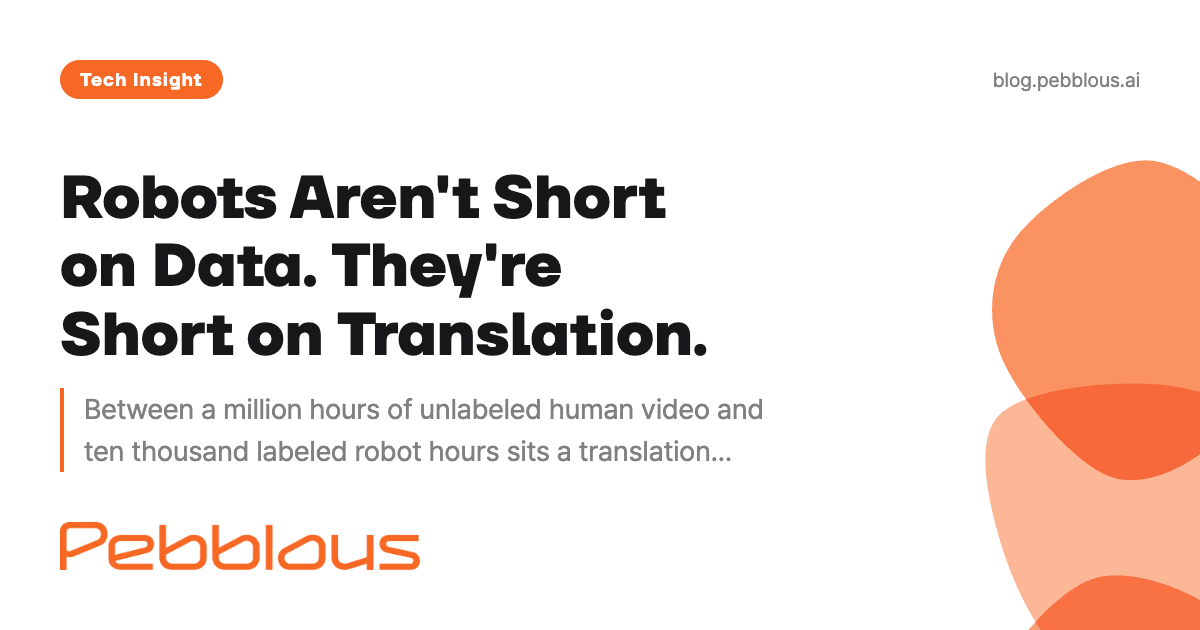
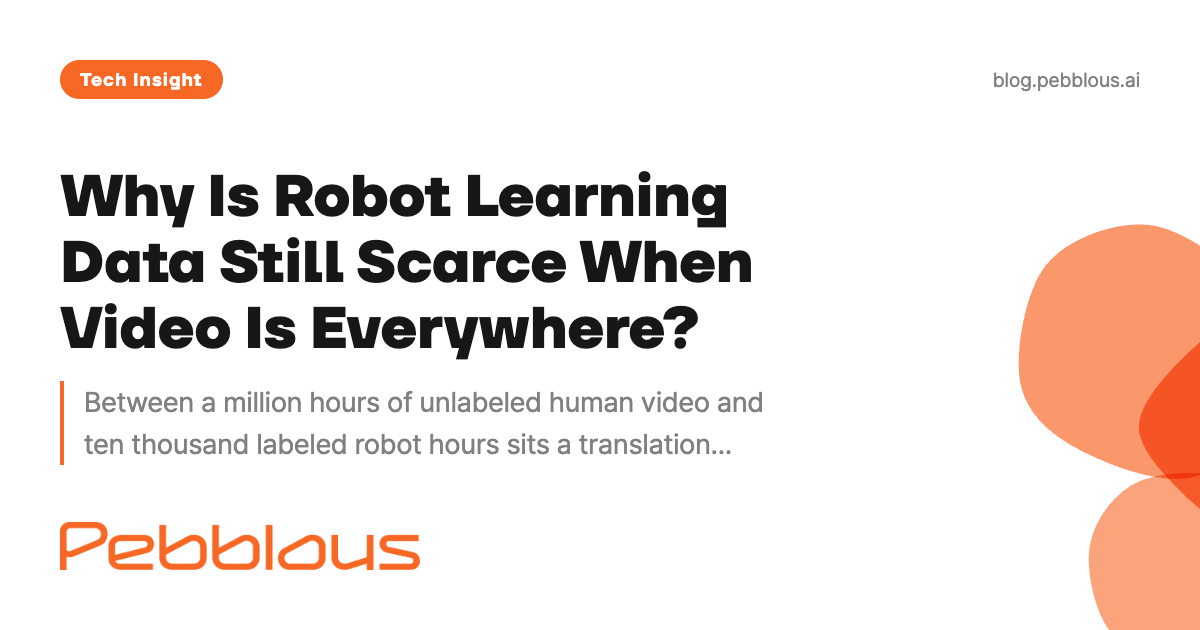
fix(report): 로봇 데이터 4인터페이스 — 현행 규칙 맞춤 (KO+EN)
- 제목 v3·핵심 검색어: '로봇 학습 데이터는 왜 넘치는데도 모자랄까?' + pb-search-keyword, 검색 제목 키워드 시작, 부제 줄표 제거
- 초록 첫 문장 소식부터, '읽어야' 류 3건 정리
- 합쇼체 9문장(맺음·방법 메모) → 해라체, 인사·요청 맺음말 제거
- 발행일 2026-10-24(실제 발행일), OG 표지 재생성, index.md 재추출

diff --git a/report/robot-data-interfaces-beyond-vla/ko/index.html b/report/robot-data-interfaces-beyond-vla/ko/index.html
@@ -10,8 +10,10 @@
     <meta name="robots" content="index, follow">
     <meta name="revisit-after" content="7 days">
 
-    <title>로봇 학습의 네 인터페이스 — VLA·월드 모델 다음의 데이터 병목 | 페블러스</title>
+    <title>로봇 학습 데이터의 네 인터페이스, VLA·월드 모델 다음의 병목 | 페블러스</title>
     <meta name="description" content="세상에 넘치는 인간 영상은 로봇에게 도착하지 않는다. 정밀한 행동 라벨이 붙은 공개 원격조작 영상은 1만 시간대, 라벨 없는 1인칭 인간 영상은 100만 시간대다. 그 사이를 잇는 네 개의 번역 장치가 어디까지 왔고 어디서 부러지는지를 논문 밖 독립 근거로 검증한다.">
+    <meta name="pb-search-keyword" content="로봇 학습 데이터">
+    <meta name="pb-search-keyword-forms" content="로봇 학습 데이터|로봇 데이터|로봇 학습">
     <meta name="keywords" content="로봇 학습 데이터, VLA, 월드 모델, 자동 라벨링, 잠재 행동, 보상 모델, 성공 판정, 리타게팅, 물리 기반 3D 추론, Physical AI, AI-Ready Data, 데이터 품질, 감독신호, cross-embodiment">
 
     <link rel="canonical" href="https://blog.pebblous.ai/report/robot-data-interfaces-beyond-vla/ko/">
@@ -20,15 +22,15 @@
     <link rel="alternate" hreflang="x-default" href="https://blog.pebblous.ai/report/robot-data-interfaces-beyond-vla/ko/">
 
     <!-- Open Graph -->
-    <meta name="og-image-title" content="로봇이 못 배우는 건 데이터가 없어서가 아니다">
-    <meta property="og:title" content="로봇이 못 배우는 건 데이터가 없어서가 아니다">
+    <meta name="og-image-title" content="로봇 학습 데이터는 왜 넘치는데도 모자랄까?">
+    <meta property="og:title" content="로봇 학습 데이터는 왜 넘치는데도 모자랄까?">
     <meta property="og:description" content="라벨 없는 인간 영상 100만 시간과 라벨 붙은 로봇 영상 1만 시간 사이에는 번역 장치가 필요하다. 자동 라벨링·리타게팅·물리 3D 추론·성공 판정, 네 장치의 성숙도와 한계를 독립 근거로 검증한다.">
     <meta property="og:type" content="article">
     <meta property="og:url" content="https://blog.pebblous.ai/report/robot-data-interfaces-beyond-vla/ko/">
     <meta property="og:image" content="https://blog.pebblous.ai/report/robot-data-interfaces-beyond-vla/ko/image/index.png">
     <meta property="og:image:width" content="1200">
     <meta property="og:image:height" content="630">
-    <meta property="og:image:alt" content="로봇이 못 배우는 건 데이터가 없어서가 아니다 — VLA와 월드 모델 다음의 네 개의 번역 장치">
+    <meta property="og:image:alt" content="로봇 학습 데이터는 왜 넘치는데도 모자랄까?">
     <meta property="og:site_name" content="Pebblous Blog">
     <meta property="og:locale" content="ko_KR">
 
@@ -36,16 +38,16 @@
     <meta name="twitter:card" content="summary_large_image">
     <meta name="twitter:site" content="@pebblous_ai">
     <meta name="twitter:creator" content="@pebblous_ai">
-    <meta name="twitter:title" content="로봇이 못 배우는 건 데이터가 없어서가 아니다">
+    <meta name="twitter:title" content="로봇 학습 데이터는 왜 넘치는데도 모자랄까?">
     <meta name="twitter:description" content="넘치는 인간 영상을 로봇의 감독신호로 바꾸는 네 개의 번역 장치. 어디까지 자동화됐고 어디서 다시 사람 손이 들어가는가.">
     <meta name="twitter:image" content="https://blog.pebblous.ai/report/robot-data-interfaces-beyond-vla/ko/image/index.png">
-    <meta name="twitter:image:alt" content="VLA와 월드 모델 다음에 필요한 네 개의 번역 장치">
+    <meta name="twitter:image:alt" content="로봇 학습 데이터는 왜 넘치는데도 모자랄까?">
 
     <!-- Google Scholar Citation Meta -->
-    <meta name="citation_title" content="로봇이 못 배우는 건 데이터가 없어서가 아니다 — VLA와 월드 모델 다음의 네 개의 번역 장치">
+    <meta name="citation_title" content="로봇 학습 데이터는 왜 넘치는데도 모자랄까?">
     <meta name="citation_author" content="Pebblous Data Communication Team">
-    <meta name="citation_publication_date" content="2026/08/11">
-    <meta name="citation_online_date" content="2026/08/11">
+    <meta name="citation_publication_date" content="2026/10/24">
+    <meta name="citation_online_date" content="2026/10/24">
     <meta name="citation_journal_title" content="Pebblous Blog">
     <meta name="citation_language" content="ko">
 
@@ -165,7 +167,7 @@
                     <h2 class="text-3xl font-bold themeable-heading mb-8">Executive Summary</h2>
                     <div class="key-insight">
                         <p class="themeable-text leading-relaxed">
-                            로봇 학습을 둘러싼 논쟁은 오래도록 "더 큰 VLA인가, 월드 모델인가"로 흘렀다. 2026년 6월에 나온 한 포지션 페이퍼는 병목이 그쪽에 있지 않다고 말한다. 세상에는 사람이 무언가를 해내는 영상이 넘치는데, 그중 로봇이 알아들을 수 있는 형태로 번역된 것은 극히 일부다. 정밀한 행동 라벨이 달린 공개 원격조작 영상은 1만 시간대이고, 라벨이 없는 1인칭 인간 영상은 100만 시간대다. 넘치는 쪽이 로봇에게 도착하지 않는다.
+                            로봇 학습의 병목은 더 큰 VLA나 월드 모델보다 데이터 번역에 있다는 주장이 나왔다. 2026년 6월 arXiv에 올라온 한 포지션 페이퍼의 진단이다. 세상에는 사람이 무언가를 해내는 영상이 넘치는데, 그중 로봇이 알아들을 수 있는 형태로 번역된 것은 극히 일부다. 정밀한 행동 라벨이 달린 공개 원격조작 영상은 1만 시간대이고, 라벨이 없는 1인칭 인간 영상은 100만 시간대다. 넘치는 쪽이 로봇에게 도착하지 않는다.
                         </p>
                         <p class="themeable-text leading-relaxed mt-4">
                             논문은 그 사이에 놓여야 할 네 개의 번역 장치를 지목한다. 라벨 없는 영상에서 행동 라벨을 만드는 장치, 사람의 몸짓을 로봇의 관절로 옮기는 장치, 접촉과 무게를 아는 3차원 추론 장치, 그리고 잘했는지를 판정하는 장치다. 논문 밖의 독립 연구로 하나씩 검증해 보면 그림이 갈린다. 번역은 실제로 작동한다. 시연이 열 개뿐일 때, 행동 라벨이 전혀 없는 영상으로 사전학습하는 것만으로 성공률이 다섯 배 넘게 뛴다. 동시에 번역은 아직 사람만 못하다. 자동으로 붙인 행동 라벨은 진짜 행동 라벨에 여전히 뒤지고, 성공을 판정하는 모델은 물리 상식 시험에서 사람의 절반을 겨우 넘는다.
@@ -222,7 +224,7 @@
 
                     <div class="key-insight">
                         <p class="themeable-text leading-relaxed">
-                            저자들의 소속은 모두 학술기관으로 표기돼 있으나, 이 논문은 로봇 스타트업 Motoniq.ai가 자사 리서치 페이지에 창업 명제로 내건 문서이기도 하다. 문제 진단은 인용할 가치가 있되, 그 진단이 특정 회사의 사업 각도와 정렬돼 있다는 점은 감안해서 읽어야 한다. 이 리포트가 논문의 진단을 그대로 옮기지 않고 논문 밖의 독립 연구로 하나씩 검증하는 이유이기도 하다.
+                            저자들의 소속은 모두 학술기관으로 표기돼 있으나, 이 논문은 로봇 스타트업 Motoniq.ai가 자사 리서치 페이지에 창업 명제로 내건 문서이기도 하다. 문제 진단은 인용할 가치가 있되, 그 진단이 특정 회사의 사업 각도와 정렬돼 있다는 점은 감안해야 한다. 이 리포트가 논문의 진단을 그대로 옮기지 않고 논문 밖의 독립 연구로 하나씩 검증하는 이유이기도 하다.
                         </p>
                     </div>
 
@@ -459,11 +461,11 @@
                         <h2 class="text-3xl font-bold themeable-heading">보상 인터페이스: 성공했는지를 누가 판정하는가</h2>
                     </div>
                     <p class="themeable-text leading-relaxed mb-6">
-                        행동 라벨을 만들었다고 끝이 아니다. 그 행동이 과제를 해낸 것인지 아닌지를 누군가 말해 줘야 정책이 학습할 수 있다. 사람이 매 롤아웃을 보고 채점하면 규모가 막히므로, 영상과 지시문을 함께 읽는 비전-언어 모델에게 그 판정을 맡기자는 것이 보상 인터페이스다. 이 절의 수치를 읽기 전에 천장부터 세워야 한다. <strong>기준선이 100%가 아니기 때문이다.</strong>
+                        행동 라벨을 만들었다고 끝이 아니다. 그 행동이 과제를 해낸 것인지 아닌지를 누군가 말해 줘야 정책이 학습할 수 있다. 사람이 매 롤아웃을 보고 채점하면 규모가 막히므로, 영상과 지시문을 함께 읽는 비전-언어 모델에게 그 판정을 맡기자는 것이 보상 인터페이스다. 이 절의 수치를 보기 전에 천장부터 세워야 한다. <strong>기준선이 100%가 아니기 때문이다.</strong>
                     </p>
 
                     <p class="themeable-text leading-relaxed mb-6">
-                        구글 딥마인드가 2023년에 성공 판정을 시각 질의응답 문제로 재정의한 연구 SuccessVQA(<a href="https://arxiv.org/abs/2303.07280" target="_blank" rel="noopener" class="underline">arXiv:2303.07280</a>)는, 같은 영상을 본 사람 평가자들끼리의 일치도 자체가 약 88%에 머문다고 보고했다. 무엇이 성공인가에 대해 사람도 여덟 번 중 한 번은 서로 다르게 답한다는 뜻이다. 이후의 모든 자동 판정 수치는 이 천장 대비로 읽어야 한다.
+                        구글 딥마인드가 2023년에 성공 판정을 시각 질의응답 문제로 재정의한 연구 SuccessVQA(<a href="https://arxiv.org/abs/2303.07280" target="_blank" rel="noopener" class="underline">arXiv:2303.07280</a>)는, 같은 영상을 본 사람 평가자들끼리의 일치도 자체가 약 88%에 머문다고 보고했다. 무엇이 성공인가에 대해 사람도 여덟 번 중 한 번은 서로 다르게 답한다는 뜻이다. 이후의 모든 자동 판정 수치는 이 천장에 견줘 봐야 한다.
                     </p>
 
                     <h3 class="text-xl font-semibold themeable-heading mb-4"><span class="sub-number-badge">3.1</span>분포 안에서는 쓸 만하고, 새 과제에서 무너진다</h3>
@@ -848,13 +850,13 @@
                     </p>
 
                     <p class="themeable-text leading-relaxed mb-6">
-                        긴 글을 여기까지 읽어 주셔서 감사합니다. 로봇 데이터 시리즈는 무엇을 먹일 것인가, 어떻게 손질할 것인가, 어떻게 번역할 것인가로 이어져 왔습니다. 다음 편에서는 번역된 감독신호의 품질을 실제로 어떻게 잴 것인지, 그 잣대의 설계를 다뤄 보려 합니다. 자동 라벨의 검수 절차를 세우고 계신 분이라면 어떤 지표를 계약에 넣고 계신지 알려 주시면 다음 글의 재료로 삼겠습니다.
+                        로봇 데이터 시리즈는 무엇을 먹일 것인가, 어떻게 손질할 것인가, 어떻게 번역할 것인가로 이어져 왔다. 다음 편에서는 번역된 감독신호의 품질을 실제로 어떻게 잴 것인지, 그 잣대의 설계를 다룬다.
                     </p>
 
                     <div class="editors-note">
                         <span class="en-label">EDITOR'S NOTE</span>
                         <p class="themeable-text leading-relaxed">
-                            이 리포트는 1차 출처를 우선했습니다. 논문의 표와 캡션, 공식 문서 원문, 기업 발표문에서 직접 확인한 수치만 본문에 넣었고, 검색 요약 수준에서만 확인된 수치는 아무리 논지에 잘 맞아도 뺐습니다. 시연 절감 배수처럼 저희가 같은 표의 열을 비교해 계산한 값은 계산이라고 밝혔습니다. 언론 보도로만 확인된 예산 수치에는 그 사실을 함께 적었습니다. 확보하지 못한 근거는 §6에 공백으로 남겨 두었습니다.
+                            이 리포트는 1차 출처를 우선했다. 논문의 표와 캡션, 공식 문서 원문, 기업 발표문에서 직접 확인한 수치만 본문에 넣었고, 검색 요약 수준에서만 확인된 수치는 아무리 논지에 잘 맞아도 뺐다. 시연 절감 배수처럼 같은 표의 열을 비교해 계산한 값은 계산이라고 밝혔다. 언론 보도로만 확인된 예산 수치에는 그 사실을 함께 적었다. 확보하지 못한 근거는 §6에 공백으로 남겨 두었다.
                         </p>
                     </div>
 
@@ -990,11 +992,11 @@
               },
               "recordedAt": "2026-08-11T03:55:46.633Z"
             },
-            mainTitle: "로봇이 못 배우는 건 데이터가 없어서가 아니다",
-            subtitle: "VLA와 월드 모델 다음에 필요한 네 개의 번역 장치 — 자동 라벨링·리타게팅·물리 기반 3D 추론·성공 판정",
-            pageTitle: "로봇 학습의 네 인터페이스 — VLA·월드 모델 다음의 데이터 병목 | 페블러스",
+            mainTitle: "로봇 학습 데이터는 왜 넘치는데도 모자랄까?",
+            subtitle: "VLA와 월드 모델 다음에 필요한 번역 장치는 자동 라벨링, 리타게팅, 물리 기반 3D 추론, 성공 판정 네 가지다",
+            pageTitle: "로봇 학습 데이터의 네 인터페이스, VLA·월드 모델 다음의 병목 | 페블러스",
             category: "tech",
-            publishDate: "2026-08-11",
+            publishDate: "2026-10-24",
             publisher: "(주)페블러스 데이터 커뮤니케이션팀",
             defaultTheme: "light",
             articlePath: "report/robot-data-interfaces-beyond-vla/ko/",

diff --git a/report/robot-data-interfaces-beyond-vla/en/index.html b/report/robot-data-interfaces-beyond-vla/en/index.html
@@ -10,8 +10,10 @@
     <meta name="robots" content="index, follow">
     <meta name="revisit-after" content="7 days">
 
-    <title>The Four Interfaces of Robot Learning Beyond VLA | Pebblous</title>
+    <title>Robot Learning Data: Four Interfaces Beyond VLA | Pebblous</title>
     <meta name="description" content="Labeled robot footage: ~10,000 hours. Unlabeled human video: ~1,000,000. We test how far the four translators between them have come, and where they break.">
+    <meta name="pb-search-keyword" content="robot learning data">
+    <meta name="pb-search-keyword-forms" content="robot learning data|Robot Learning Data|robot data">
     <meta name="keywords" content="robot learning data, VLA, world models, automatic action labeling, latent actions, reward models, success detection, motion retargeting, physics-grounded 3D reasoning, Physical AI, AI-Ready Data, data quality, supervision signal, cross-embodiment">
 
     <link rel="canonical" href="https://blog.pebblous.ai/report/robot-data-interfaces-beyond-vla/en/">
@@ -20,15 +22,15 @@
     <link rel="alternate" hreflang="x-default" href="https://blog.pebblous.ai/report/robot-data-interfaces-beyond-vla/ko/">
 
     <!-- Open Graph -->
-    <meta name="og-image-title" content="Robots Aren't Short on Data. They're Short on Translation.">
-    <meta property="og:title" content="Robots Aren't Short on Data. They're Short on Translation.">
+    <meta name="og-image-title" content="Why Is Robot Learning Data Still Scarce When Video Is Everywhere?">
+    <meta property="og:title" content="Why Is Robot Learning Data Still Scarce When Video Is Everywhere?">
     <meta property="og:description" content="Between a million hours of unlabeled human video and ten thousand labeled robot hours sits a translation layer. We test four translators — auto-labeling, retargeting, 3D reasoning, success detection.">
     <meta property="og:type" content="article">
     <meta property="og:url" content="https://blog.pebblous.ai/report/robot-data-interfaces-beyond-vla/en/">
     <meta property="og:image" content="https://blog.pebblous.ai/report/robot-data-interfaces-beyond-vla/en/image/index.png">
     <meta property="og:image:width" content="1200">
     <meta property="og:image:height" content="630">
-    <meta property="og:image:alt" content="Robots aren't short on data, they're short on translation — the four translators needed after VLAs and world models">
+    <meta property="og:image:alt" content="Why Is Robot Learning Data Still Scarce When Video Is Everywhere?">
     <meta property="og:site_name" content="Pebblous Blog">
     <meta property="og:locale" content="en_US">
 
@@ -36,16 +38,16 @@
     <meta name="twitter:card" content="summary_large_image">
     <meta name="twitter:site" content="@pebblous_ai">
     <meta name="twitter:creator" content="@pebblous_ai">
-    <meta name="twitter:title" content="Robots Aren't Short on Data. They're Short on Translation.">
+    <meta name="twitter:title" content="Why Is Robot Learning Data Still Scarce When Video Is Everywhere?">
     <meta name="twitter:description" content="Four translators turn the world's surplus of human video into robot supervision. How much of that work is automated now, and where do human hands come back?">
     <meta name="twitter:image" content="https://blog.pebblous.ai/report/robot-data-interfaces-beyond-vla/en/image/index.png">
-    <meta name="twitter:image:alt" content="The four translators robot learning needs after VLAs and world models">
+    <meta name="twitter:image:alt" content="Why Is Robot Learning Data Still Scarce When Video Is Everywhere?">
 
     <!-- Google Scholar Citation Meta -->
-    <meta name="citation_title" content="Robots Aren't Short on Data. They're Short on Translation. — The Four Translators Needed After VLAs and World Models">
+    <meta name="citation_title" content="Why Is Robot Learning Data Still Scarce When Video Is Everywhere?">
     <meta name="citation_author" content="Pebblous Data Communication Team">
-    <meta name="citation_publication_date" content="2026/08/11">
-    <meta name="citation_online_date" content="2026/08/11">
+    <meta name="citation_publication_date" content="2026/10/24">
+    <meta name="citation_online_date" content="2026/10/24">
     <meta name="citation_journal_title" content="Pebblous Blog">
     <meta name="citation_language" content="en">
 
@@ -165,7 +167,7 @@
                     <h2 class="text-3xl font-bold themeable-heading mb-8">Executive Summary</h2>
                     <div class="key-insight">
                         <p class="themeable-text leading-relaxed">
-                            The argument about robot learning has run for years on a single axis: bigger VLAs, or world models? A position paper posted in June 2026 says the bottleneck is somewhere else entirely. The world is full of video of people doing things, and only a sliver of it has ever been translated into a form a robot can read. Public teleoperation footage carrying precise action labels amounts to roughly ten thousand hours. Unlabeled egocentric human video amounts to roughly a million. The side with the surplus never reaches the robot.
+                            A new position paper argues that the bottleneck in robot learning lies less in bigger VLAs or world models than in translating data. It was posted to arXiv in June 2026. The world is full of video of people doing things, and only a sliver of it has ever been translated into a form a robot can read. Public teleoperation footage carrying precise action labels amounts to roughly ten thousand hours. Unlabeled egocentric human video amounts to roughly a million. The side with the surplus never reaches the robot.
                         </p>
                         <p class="themeable-text leading-relaxed mt-4">
                             The paper names four translators that ought to sit in between: one that manufactures action labels from unlabeled video, one that carries a human gesture over to a robot's joints, one that reasons in three dimensions about contact and weight, and one that decides whether the attempt succeeded. Check each against independent work published outside the paper and the picture splits in two. Translation genuinely works: with only ten demonstrations on hand, pretraining on video that carries no action labels at all lifts success rates more than fivefold. Translation is also still worse than a person. Automatically inferred action labels remain behind real ones, and the models asked to judge success clear barely half of a human score on physical-common-sense tests.
@@ -848,7 +850,7 @@
                     </p>
 
                     <p class="themeable-text leading-relaxed mb-6">
-                        Thank you for reading this far. The robot data series has run from what to feed a policy, to how to curate what you feed it, to how to translate it. The next installment will take up how to actually measure the quality of translated supervision — the design of that instrument. If you are building an inspection process for automatic labels, we would like to hear which metrics you are writing into your contracts; it would make good material for the next piece.
+                        The robot data series has run from what to feed a policy, to how to curate what you feed it, to how to translate it. The next installment takes up how to measure the quality of translated supervision, and how to design that instrument.
                     </p>
 
                     <div class="editors-note">
@@ -990,11 +992,11 @@
               },
               "recordedAt": "2026-08-11T03:55:46.633Z"
             },
-            mainTitle: "Robots Aren't Short on Data. They're Short on Translation.",
-            subtitle: "The four translators robot learning needs after VLAs and world models — automatic labeling, retargeting, physics-grounded 3D reasoning, and success detection",
-            pageTitle: "The Four Interfaces of Robot Learning Beyond VLA | Pebblous",
+            mainTitle: "Why Is Robot Learning Data Still Scarce When Video Is Everywhere?",
+            subtitle: "After VLAs and world models, robot learning needs four translators: automatic labeling, retargeting, physics-grounded 3D reasoning and success detection",
+            pageTitle: "Robot Learning Data: Four Interfaces Beyond VLA | Pebblous",
             category: "tech",
-            publishDate: "2026-08-11",
+            publishDate: "2026-10-24",
             publisher: "Pebblous Data Communication Team",
             defaultTheme: "light",
             articlePath: "report/robot-data-interfaces-beyond-vla/en/",

diff --git a/report/robot-data-interfaces-beyond-vla/en/index.md b/report/robot-data-interfaces-beyond-vla/en/index.md
@@ -1,20 +1,20 @@
 ---
-title: Robots Aren
-subtitle: The four translators robot learning needs after VLAs and world models — automatic labeling, retargeting, physics-grounded 3D reasoning, and success detection
-date: 2026-08-11
+title: Why Is Robot Learning Data Still Scarce When Video Is Everywhere?
+subtitle: After VLAs and world models, robot learning needs four translators: automatic labeling, retargeting, physics-grounded 3D reasoning and success detection
+date: 2026-10-24
 category: tech
 source: index.html
 note: HTML-중립 본문 원고(자동 역추출). 출간 후 본문 수정은 이 파일에서.
 ---
 
-# Robots Aren
+# Why Is Robot Learning Data Still Scarce When Video Is Everywhere?
 
-_The four translators robot learning needs after VLAs and world models — automatic labeling, retargeting, physics-grounded 3D reasoning, and success detection_
+_After VLAs and world models, robot learning needs four translators: automatic labeling, retargeting, physics-grounded 3D reasoning and success detection_
 
 ## Executive Summary
 
 > [!callout]
-> The argument about robot learning has run for years on a single axis: bigger VLAs, or world models? A position paper posted in June 2026 says the bottleneck is somewhere else entirely. The world is full of video of people doing things, and only a sliver of it has ever been translated into a form a robot can read. Public teleoperation footage carrying precise action labels amounts to roughly ten thousand hours. Unlabeled egocentric human video amounts to roughly a million. The side with the surplus never reaches the robot.
+> A new position paper argues that the bottleneck in robot learning lies less in bigger VLAs or world models than in translating data. It was posted to arXiv in June 2026. The world is full of video of people doing things, and only a sliver of it has ever been translated into a form a robot can read. Public teleoperation footage carrying precise action labels amounts to roughly ten thousand hours. Unlabeled egocentric human video amounts to roughly a million. The side with the surplus never reaches the robot.
 
 > The paper names four translators that ought to sit in between: one that manufactures action labels from unlabeled video, one that carries a human gesture over to a robot's joints, one that reasons in three dimensions about contact and weight, and one that decides whether the attempt succeeded. Check each against independent work published outside the paper and the picture splits in two. Translation genuinely works: with only ten demonstrations on hand, pretraining on video that carries no action labels at all lifts success rates more than fivefold. Translation is also still worse than a person. Automatically inferred action labels remain behind real ones, and the models asked to judge success clear barely half of a human score on physical-common-sense tests.
 
